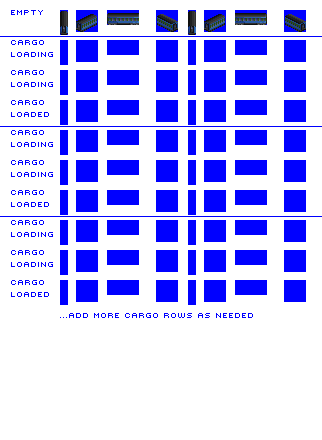
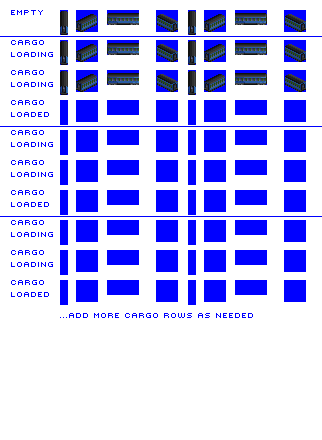
Change: hack in longer vehicles

Changed region(s): [[0.4658, 0.0886, 0.8385, 0.2364], [0.1863, 0.0886, 0.4348, 0.2364], [0.8696, 0.0886, 0.9627, 0.2068]]

diff --git a/src/train.py b/src/train.py
@@ -87,7 +87,7 @@ class Train(object):
             vehicle_kwargs = kwargs
             trailing_part_id = self.id + '_trailing_part_' + str(count + 1)
             vehicle_kwargs['numeric_id'] = self.numeric_id + count + 1
-            trailing_parts.append(TrailingPart(trailing_part_id, parent_vehicle, trailing_part_length, **vehicle_kwargs))
+            trailing_parts.append(TrailingPart(trailing_part_id, parent_vehicle, trailing_part_length, count + 1, **vehicle_kwargs))
         return trailing_parts
 
     def get_capacity_variations(self, capacity):
@@ -263,7 +263,7 @@ class TrailingPart(Train):
     """
     Trailing part for articulated (not dual-headed) vehicles.
     """
-    def __init__(self, id, parent_vehicle, trailing_part_length, **kwargs):
+    def __init__(self, id, parent_vehicle, trailing_part_length, part_num, **kwargs):
         kwargs['vehicle_length'] = trailing_part_length
         super(TrailingPart, self).__init__(id, **kwargs)
         self.title = 'Trailing Part []'
@@ -272,7 +272,8 @@ class TrailingPart(Train):
         self.weight = 0
         self.default_cargo_capacities = [0]
         self.parent_vehicle = parent_vehicle
-        self.model_variants = parent_vehicle.model_variants
+        self.part_num = part_num
+        self.model_variants = parent_vehicle.model_variants        
 
 
 class Wagon(Train):
@@ -401,6 +402,12 @@ class PassengerCar(Wagon):
         self.autorefit = True
         self.default_cargo = 'PASS'
         self.default_cargo_capacities = self.capacities_pax
+        # special handling for vehicles longer than 8/8 - split them into 3 parts with two 1/8 hidden parts
+        if self.vehicle_length > 8:
+            self.articulated = True
+            first_part_length = self.vehicle_length - 2
+            self.vehicle_length = first_part_length # reset vehicle length
+            self.trailing_parts = self.get_trailing_parts(id, self, trailing_part_lengths = [1, 1], **kwargs)
 
 
 class MailCar(Wagon):

diff --git a/src/global_constants.py b/src/global_constants.py
@@ -135,4 +135,6 @@ default_train_offsets = {'1': [[-3, -12], [-14, -14], [-16, -11], [-8, -15], [-3
                          '5': [[-3, -18], [-8, -17], [-4, -11], [-8, -15], [-3, -12], [-14, -14], [-17, -11], [-8, -18]],
                          '6': [[-3, -16], [-10, -16], [-8, -11], [-8, -15], [-3, -12], [-14, -14], [-17, -11], [-8, -17]],
                          '7': [[-3, -14], [-12, -15], [-12, -11], [-8, -15], [-3, -12], [-14, -14], [-17, -11], [-8, -15]],
-                         '8': [[-3, -12], [-14, -14], [-16, -11], [-8, -15], [-3, -12], [-14, -14], [-16, -11], [-8, -15]]}
+                         '8': [[-3, -12], [-14, -14], [-16, -11], [-8, -15], [-3, -12], [-14, -14], [-16, -11], [-8, -15]],
+                         '9': [[-3, -12], [-14, -14], [-16, -11], [-8, -15], [-3, -12], [-14, -14], [-16, -11], [-8, -15]], # needs fix
+                         '10': [[-3, -12], [-14, -14], [-16, -11], [-8, -15], [-3, -12], [-14, -14], [-16, -11], [-8, -15]]} # needs fix

diff --git a/src/vehicles/passenger_cars.py b/src/vehicles/passenger_cars.py
@@ -50,7 +50,7 @@ vehicle = PassengerCar(title = 'Passenger [Car]',
                     fixed_run_cost_factor = 3.5,
                     fuel_run_cost_factor = 1.0,
                     weight = 100,
-                    vehicle_length = 8,
+                    vehicle_length = 10,
                     loading_speed = 20,
                     intro_date = 1985,
                     str_type_info = 'COASTER',
